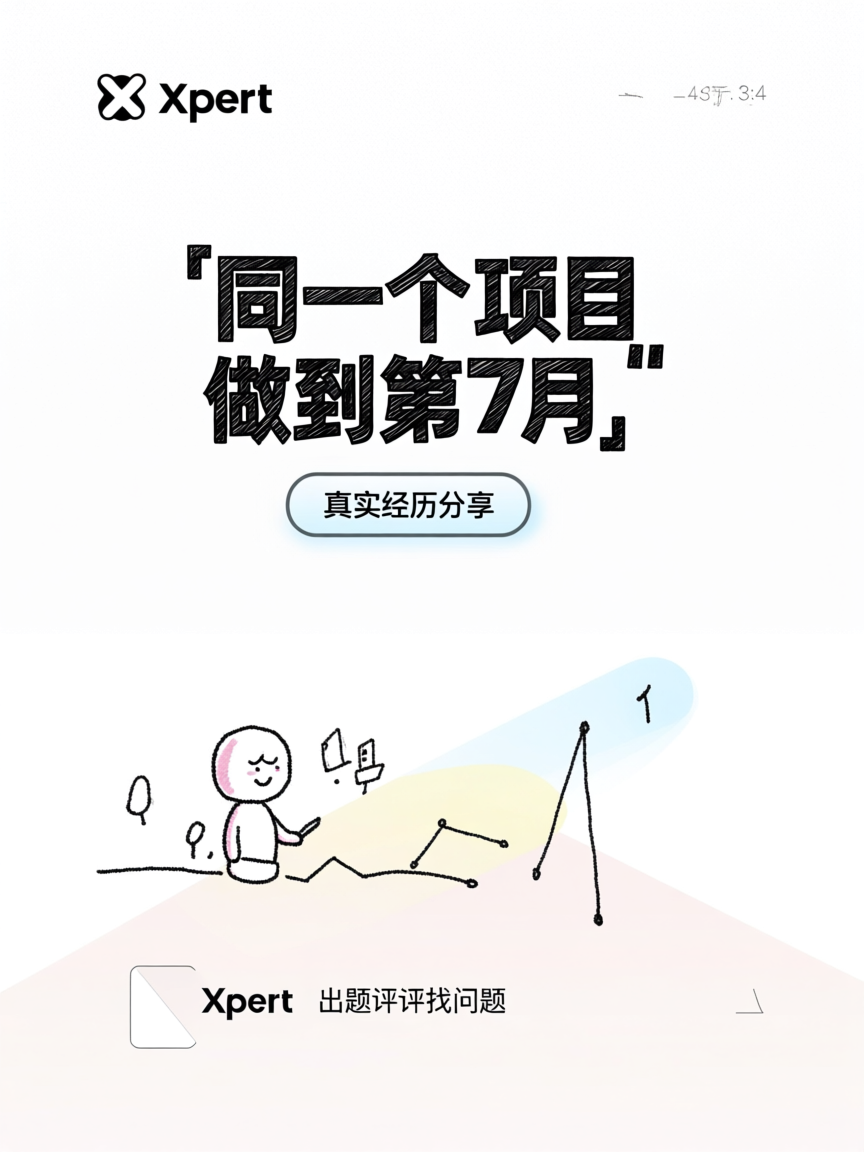
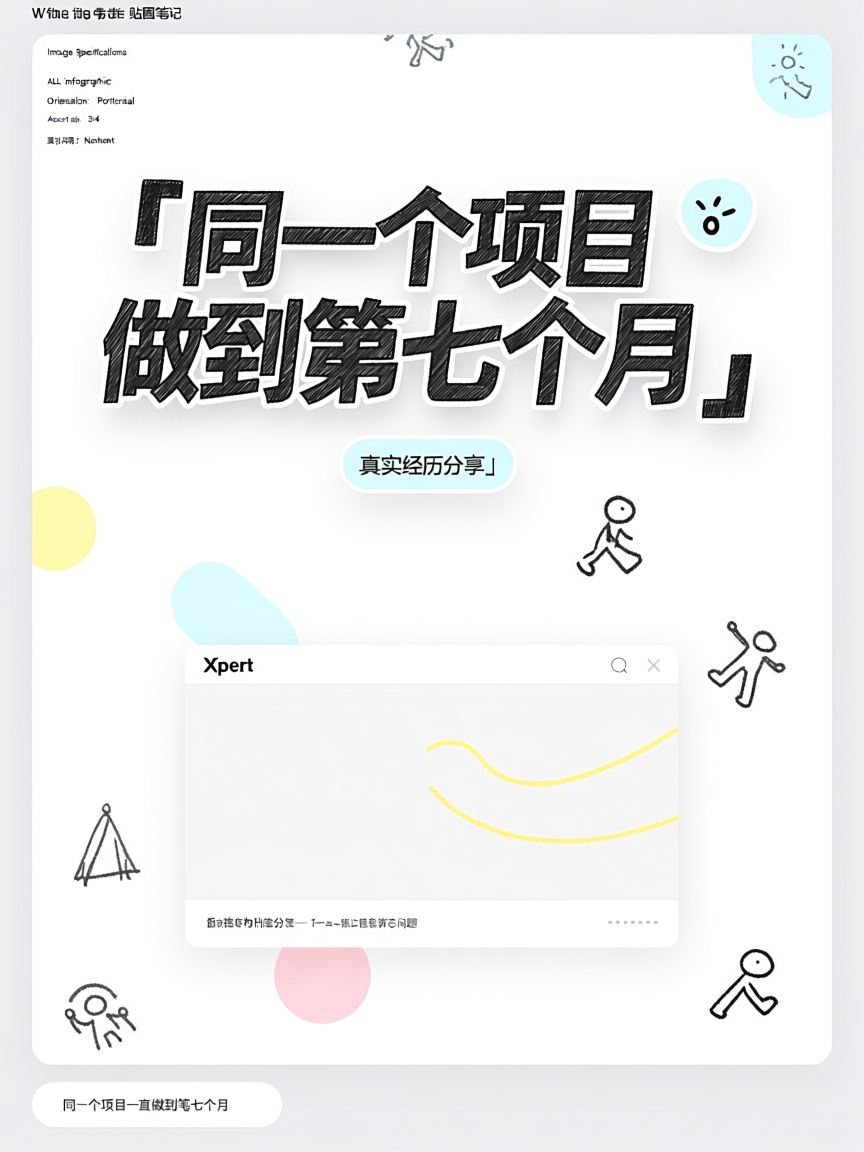
vault backup: 2026-10-26 21:40:29

diff --git a/02-稿件库/01-创作中稿件/Xpert创作者活动第三期-20261026/imgs/outline.md b/02-稿件库/01-创作中稿件/Xpert创作者活动第三期-20261026/imgs/outline.md
@@ -1,18 +1,30 @@
-# outline.md — Xpert 第三期图卡系列
+# outline.md — Xpert 第三期图卡系列（已定稿）
 
 - strategy: A 故事驱动（续篇叙事：7个月 → 变化 → 日常 → 人群）
-- style: notion（手绘线稿，延续上期已过审视觉体系，龙虾🦞IP）
-- palette: 默认（白底 + 淡彩蓝/黄/粉点缀，禁止色值入画）
+- style: notion（手绘线稿，延续上期已过审视觉体系）
+- palette: 白底 + 淡彩蓝/黄/粉点缀
 - backend: modelscope / Qwen/Qwen-Image / 2k
-- 尺寸: 01-06 → 3:4 · 07 → 9:16
-- 一致性: provider 不支持 ref，全部卡片共享同一风格块 + 同一龙虾造型描述
+- 尺寸: 01-06 → 3:4（864×1152）· 07 → 9:16
+- 生成日期: 2026-10-26
 
-| # | 文件 | 布局 | 核心文案 |
+## 生成经验（Qwen-Image 中文文字卡）
+
+- 数字"7"+个月混排标题乱码率高 → 改中文数字「第七个月」后稳定
+- 文字元素 ≤3 组、每段 ≤10 字最稳；标签 2-4 字几乎不出错
+- 常见泄漏（可容忍，先例：上期已发布卡同样有角落瑕疵）：角落伪logo/徽标、浏览器装饰条、小字乱码段
+- 硬伤即弃：正文乱码、缺字、规格值入画（3:4/百分比/Type: Infographic）
+- 胜选率约 1/4-1/5，多轮翻滚+择优是必要流程；落选稿存 `candidates/`
+
+## 最终选定（提示词 → 成图）
+
+| # | 成图 | 提示词 | 核对结果 |
 |---|---|---|---|
-| 01 | 01-xhs-cover-7months.png | sparse 封面 | 在 Xpert 的第 7 个月 · 任务变多/界面升级/节奏更快 |
-| 02 | 02-xhs-changes.png | list | 7个月看到的3个变化 |
-| 03 | 03-xhs-daily.png | balanced | 我的日常 + 顺手迭代自己的项目 |
-| 04 | 04-xhs-fit.png | comparison | 适合谁 ✅❌ + 互动问题 |
-| 05 | 05-wx-cover-7months.png | sparse 封面 | 同一个AI项目，我做到第7个月（微信版构图） |
-| 06 | 06-wx-daily.png | balanced | 第7个月的日常 + 第一排 |
-| 07 | 07-video-cover.png | sparse 封面 9:16 | 第7个月了，我还在给AI出题 |
+| 01 | 01-xhs-cover-7months.png | prompts/01-cover-7months-v5.md | 标题2行+3标签+脚注全对 |
+| 02 | 02-xhs-changes.png | prompts/02-list-changes-r2.md | 标题+3标签+脚注全对（节奏"变"快为通顺词） |
+| 03 | 03-xhs-daily.png | prompts/03-balanced-daily-r5.md | 标题+3标签全对（左上角一枚乱码徽标，先例可容） |
+| 04 | 04-xhs-fit.png | prompts/04-comparison-fit-r2.md | 标题+3标签+脚注全对（角落伪logo，先例可容） |
+| 05 | 05-wx-cover-7months.png | prompts/05-wx-cover-r4.md | 标题2行+标签+Xpert脚注全对（装饰性浏览器涂鸦含Xpert，无碍） |
+| 06 | 06-wx-daily.png | prompts/06-wx-daily-r3.md | 标题+3标签+脚注全对（顶部小"CRITICAL"泄漏，先例可容） |
+| 07 | 07-video-cover.png | prompts/07-video-cover-r4.md | 大标题+副行+标签全对（顶部浏览器装饰条，先例可容） |
+
+落选稿：`candidates/`（*-flawed-backup* / *-reject-b2 / *-r2 / *-r3 / *-r4）

diff --git a/02-稿件库/01-创作中稿件/Xpert创作者活动第三期-20261026/00-发布总览.md b/02-稿件库/01-创作中稿件/Xpert创作者活动第三期-20261026/00-发布总览.md
@@ -52,15 +52,15 @@
 
 | # | 用途 | 尺寸 | 文件 | 状态 |
 |---|---|---|---|---|
-| 1 | 小红书封面 | 3:4 | `imgs/01-xhs-cover-7months.png` | 待生成 |
-| 2 | 小红书·变化卡 | 3:4 | `imgs/02-xhs-changes.png` | 待生成 |
-| 3 | 小红书·日常收获卡 | 3:4 | `imgs/03-xhs-daily.png` | 待生成 |
-| 4 | 小红书·人群对比卡 | 3:4 | `imgs/04-xhs-fit.png` | 待生成 |
-| 5 | 微信贴图封面 | 3:4 | `imgs/05-wx-cover-7months.png` | 待生成 |
-| 6 | 微信贴图·日常卡 | 3:4 | `imgs/06-wx-daily.png` | 待生成 |
-| 7 | 视频号封面 | 9:16 | `imgs/07-video-cover.png` | 待生成 |
+| 1 | 小红书封面 | 3:4 | `imgs/01-xhs-cover-7months.png` | ✅ 已生成并逐字核验 |
+| 2 | 小红书·变化卡 | 3:4 | `imgs/02-xhs-changes.png` | ✅ 已生成并逐字核验 |
+| 3 | 小红书·日常收获卡 | 3:4 | `imgs/03-xhs-daily.png` | ✅ 已生成并逐字核验 |
+| 4 | 小红书·人群对比卡 | 3:4 | `imgs/04-xhs-fit.png` | ✅ 已生成并逐字核验 |
+| 5 | 微信贴图封面 | 3:4 | `imgs/05-wx-cover-7months.png` | ✅ 已生成并逐字核验 |
+| 6 | 微信贴图·日常卡 | 3:4 | `imgs/06-wx-daily.png` | ✅ 已生成并逐字核验 |
+| 7 | 视频号封面 | 9:16 | `imgs/07-video-cover.png` | ✅ 已生成并逐字核验 |
 
-> 生成规范沿用上期已验证流水线：notion 手绘知识卡风格 · modelscope / Qwen-Image · 提示词存 `imgs/prompts/`；出图后逐字核验（乱码/多余文字/金额/二维码/禁词）。
+> 生成记录（2026-10-26）：notion 手绘知识卡风格 · modelscope / Qwen-Image · 3:4（864×1152）/ 9:16 · 提示词与逐字核验记录见 [[02-稿件库/01-创作中稿件/Xpert创作者活动第三期-20261026/imgs/outline|imgs/outline]]；落选稿存 `imgs/candidates/`。已知瑕疵（先例可容，上期已发布卡同样存在）：角落伪logo/徽标、顶部浏览器装饰条。
 
 ## 六、待补充清单（需要你做）
 
